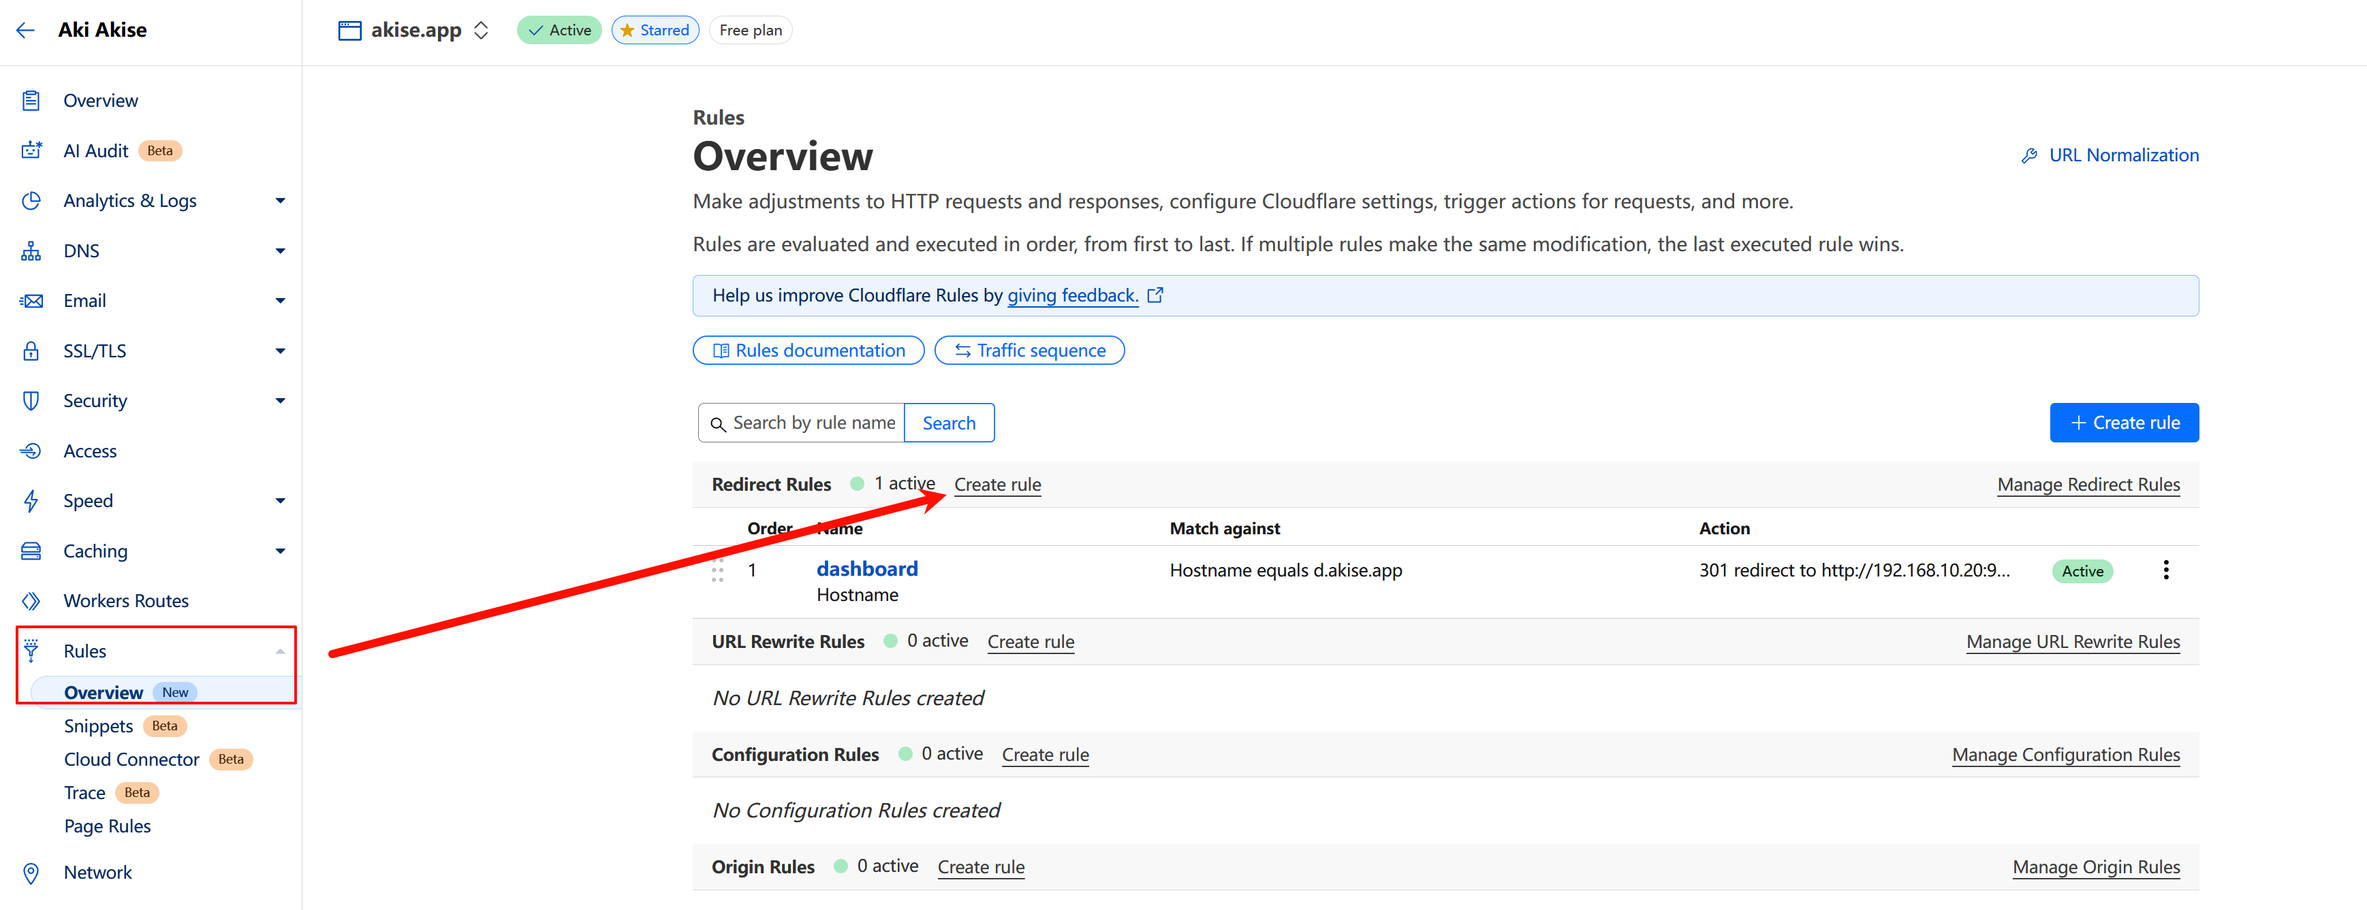
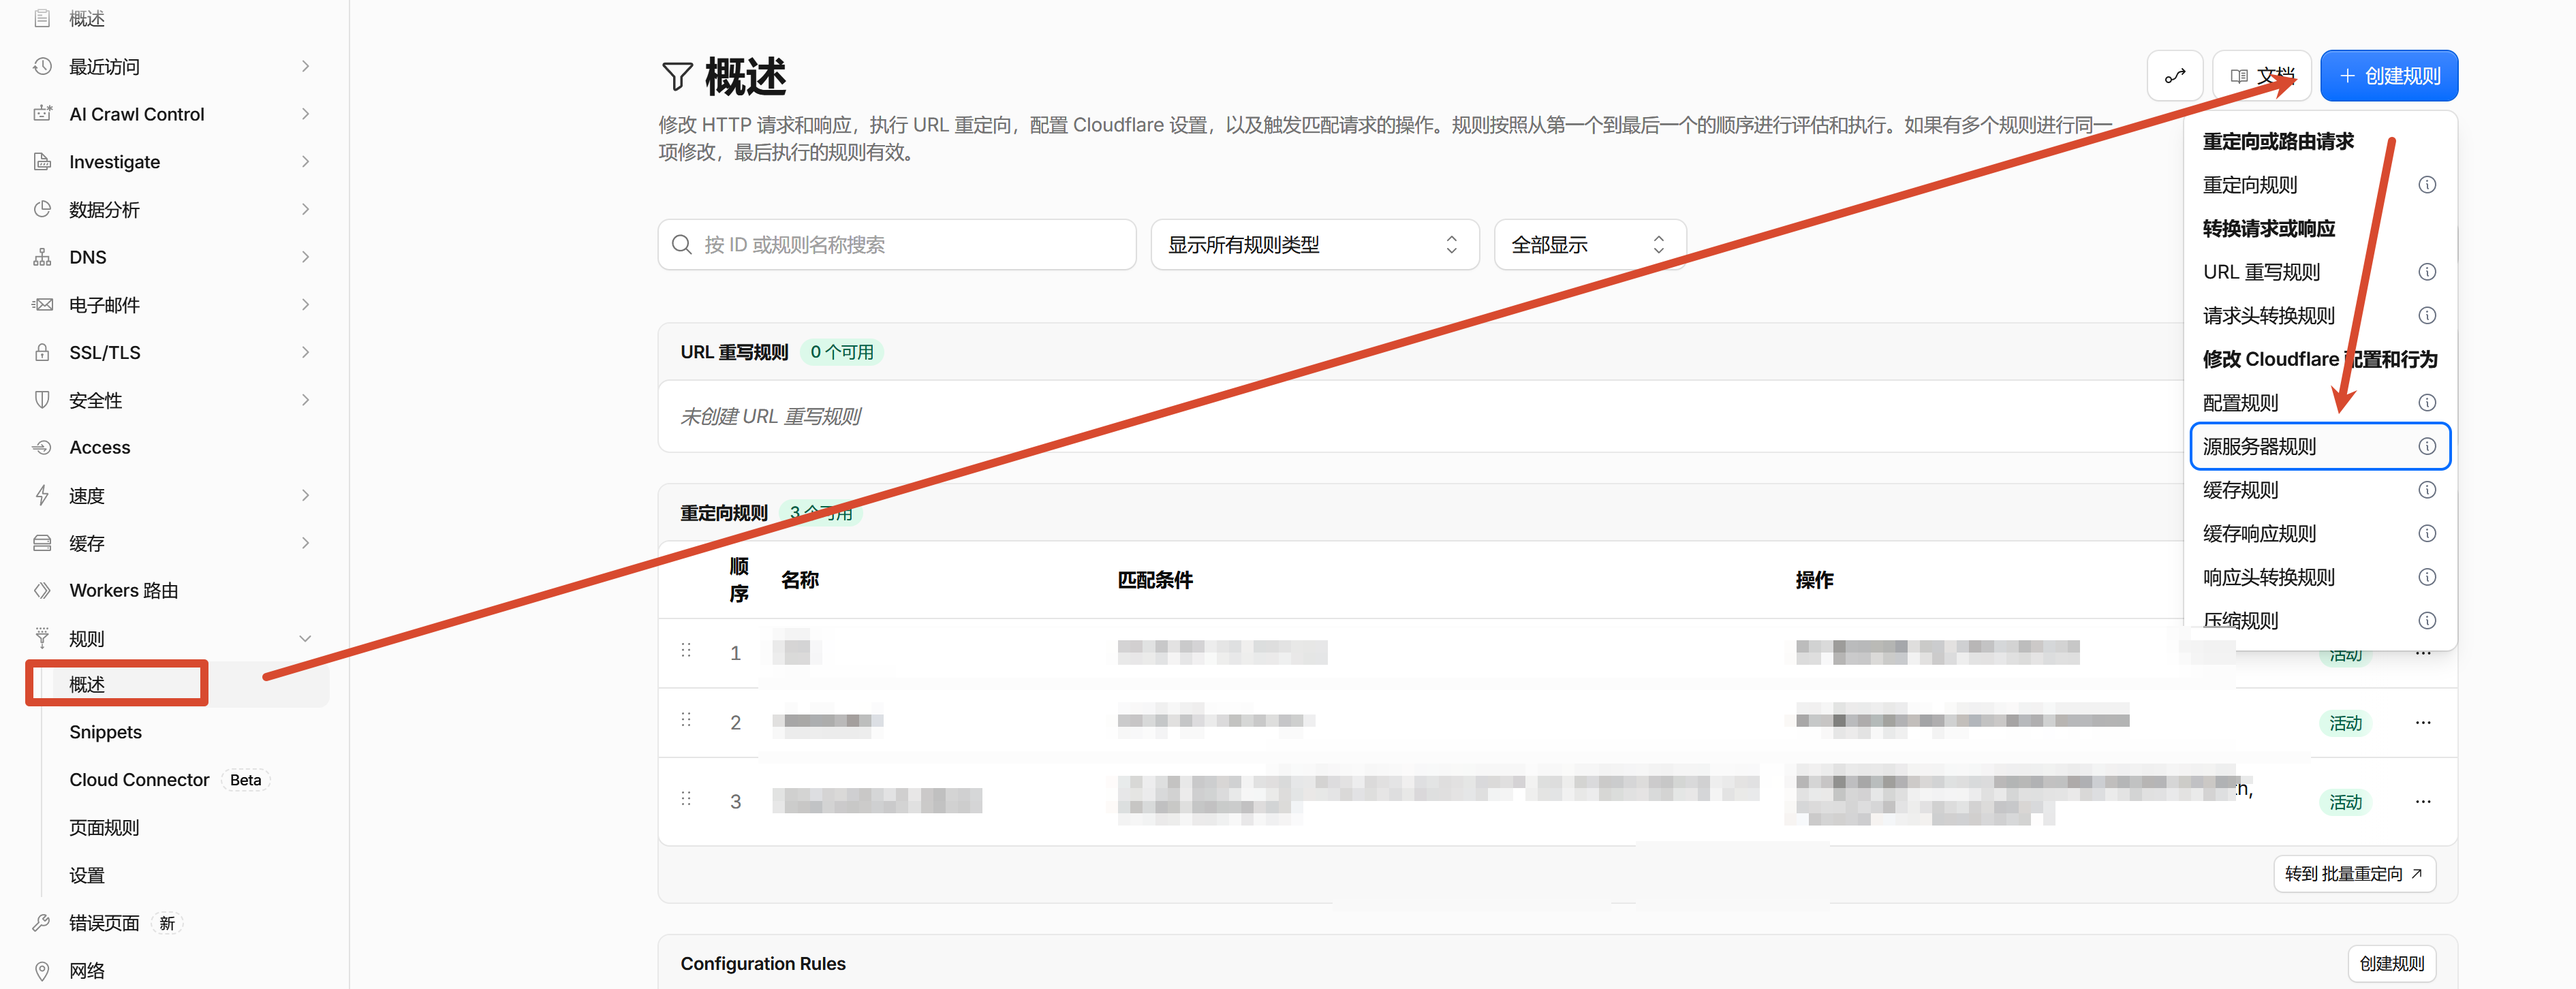
2026-07-18 20:22:02

diff --git a/source/_posts/2025-02-17-cloudflare-redirect-rule.md b/source/_posts/2025-02-17-cloudflare-redirect-rule.md
@@ -11,11 +11,31 @@ topic: play
 
 如果你拥有一个国内服务器或者你的宽带有公网 IP，那么你一定知道在当前环境下尝试通过 80/443 提供服务有多困难。多数情况下我们只能另选其他端口，然而非 80/443 端口在访问时必须准确写出端口，这在服务数量众多的情况下成本非常高。
 
-本文通过借助 Cloudflare 的重定向规则来实现“无端口”访问非 80/443 端口的服务，至少可以简化记忆端口的成本。
+本文通过借助 Cloudflare 的源站规则来实现“无端口”访问非 80/443 端口的服务，至少可以简化记忆端口的成本。
+
+# 端口映射 - 放开外网访问
+
+假设我们在内网存在数个服务：
+
+1. 服务1 vaultwarden，在 192.168.10.2，端口为 8081
+2. 服务2 navidrome，在 192.168.10.3，端口为 8082
+
+我们首先在路由器的外网端口映射配置映射规则，确保外网可以直接通过 `公网IP+8081` 访问到服务 1、通过 `公网IP+8082` 访问到服务 2：
+
+{% image /img/2025/cloudflare-redirect-rule/ddns-forward.png 端口映射配置 %}
+
+**这是一切的前提**，如果你配置了端口映射规则之后在外网通过 `公网IP+端口` 无法访问你内网的服务，那么你的公网 IP 是有问题的。
+
+# DDNS - 跟内网服务绑定域名
+
+**在 DDNS 中跟本地 IP 绑定多个域名**：假设服务 1 为 vaultwarden，服务 2 为 Navidrome，则我们使用 DDNS 同时将公网 IP 注册到两个域名下：
+
+1. vaultwarden.example.com -> 公网IP
+2. navidrome.example.com -> 公网IP
 
 # 创建规则
 
-进入 Cloudflare 后台选中你的域名后转到{% mark 规则 %}页面:
+进入 Cloudflare 后台选中你的域名后转到{% mark 规则 %}页面，创建一个{% mark 源服务器规则 %}:
 
 {% image /img/2025/cloudflare-redirect-rule/create-rule.png 创建规则 %}
 
@@ -27,10 +47,16 @@ topic: play
 
 {% image /img/2025/cloudflare-redirect-rule/dns.png DNS 配置 %}
 
-# 实际访问
+针对上边我们举例的两个服务，那就是创建两个规则：
 
-创建完成后稍等一段时间让 DNS 生效，我们再访问 `https://d.akise.app` 就会自动跳转到 `http://192.168.10.20:9000`，实现了“无端口”访问（其实就是把记录端口的事情交给 Cloudflare 来做了）:
+1. 规则1，匹配主机名 vaultwarden.example.com，映射到端口 8081
+2. 规则2，匹配主机名 navidrome.example.com，映射到端口 8082
 
-{% image /img/2025/cloudflare-redirect-rule/result.png 实现效果 %}
+我们以访问 vaultwarden.example.com 为例：
 
-你还可以在填充表单时选中 `Preserve query string` 来让跳转后的链接保留 URL query string，以便无缝提供 API 服务，不过我并没有这样的需求，暂时没有验证过这块。
+1. 浏览器访问 vaultwarden.example.com
+2. Cloudflare 匹配到源服务器规则，将请求内部路由到 vaultwarden.example.com:8081
+3. Cloudflare 解析 vaultwarden.example.com 得到公网 IP
+4. Cloudflare 通过公网IP + 8081 访问服务
+
+这样，我们就实现了 DDNS + 端口隐藏。
